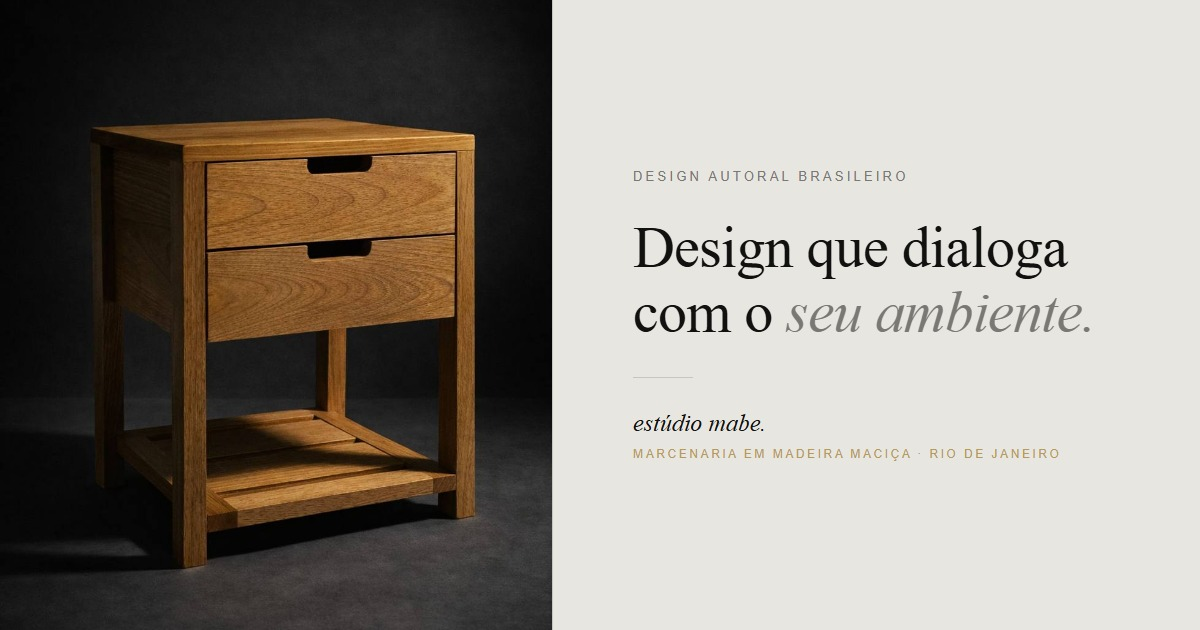
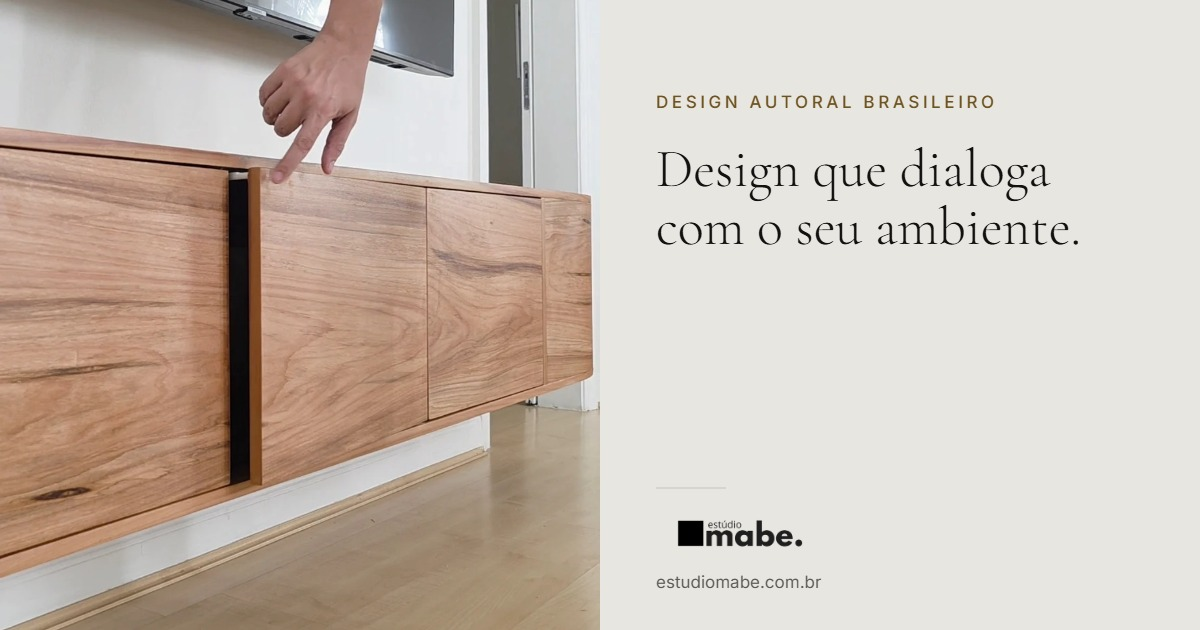
Novo cartao de compartilhamento e papel do Mateus
CARTAO DA HOME
Sai a mesa de cabeceira, entra o rack de peroba do Jardim Botanico, na
foto em que a mao abre a porta sem puxador. Mesma forma de sempre:
metade foto, metade bege com a frase da marca.

Escolhida entre as quatro fotos do projeto porque e a unica em que a
madeira preenche a metade esquerda inteira e a televisao da sala fica
reduzida a uma lasca no topo. Nas outras tres ela ocupa o quarto de
cima da imagem e o recorte nao tem folga para corta-la.

A descricao da imagem (og:image:alt) mudou junto, senao leitor de tela
anunciaria a peca errada.

PAPEL DO MATEUS
"Co-fundador · Criação · Gestão" vira "Co-fundador · Artífice · Manager",
como ele pediu. Em ingles, "Co-founder · Craftsman · Manager".

As 22 paginas de compartilhamento foram regeradas: elas carregam uma
copia do corpo do site, onde o papel aparece.

diff --git a/index.html b/index.html
@@ -141,7 +141,7 @@
   <meta property="og:image" content="https://www.estudiomabe.com.br/images/og/home.jpg" />
   <meta property="og:image:width" content="1200" />
   <meta property="og:image:height" content="630" />
-  <meta property="og:image:alt" content="Mesa de cabeceira Botafogo em tauari maciço, do Estúdio MABE" />
+  <meta property="og:image:alt" content="Rack suspenso em peroba do campo, com a mão abrindo a porta sem puxador, do Estúdio MABE" />
 
   <!-- Twitter / X -->
   <meta name="twitter:card" content="summary_large_image" />
@@ -2504,7 +2504,7 @@
     <div class="fundadores">
       <div class="fundador-card">
         <div class="fundador-avatar" style="background:none;border:none;overflow:hidden;padding:0;width:100px;height:100px;border-radius:50%;flex-shrink:0;"><img src="/images/fundador-mateus.webp" alt="Mateus" width="320" height="340" loading="lazy" style="width:100%;height:100%;object-fit:cover;object-position:center top;border-radius:50%;display:block;" /></div>
-        <p class="fundador-role">Co-fundador · Criação · Gestão</p>
+        <p class="fundador-role">Co-fundador · Artífice · Manager</p>
         <h2 class="fundador-name">Mateus</h2>
         <p class="fundador-bio">Engenheiro de formação, Mateus encontrou na marcenaria bem mais do que um passatempo. Morador da Barra da Tijuca, no Rio de Janeiro, foi fisgado pela riqueza e pela abundância das madeiras brasileiras: tauari, freijó, cumaru, cada uma com um jeito próprio de receber a ferramenta. Das ciências exatas ele trouxe uma certeza que virou método: num encaixe, o milímetro não é detalhe, é o que separa a peça que atravessa gerações da que range no segundo inverno.</p>
         <p class="fundador-bio">Hoje une essa precisão à beleza natural da madeira para criar peças únicas e estruturadas. Proporção vem antes de ornamento: um móvel sem proporção, ele costuma dizer, é uma frase mal escrita, dá para entender, mas incomoda.</p>

diff --git a/en/peca/casa-dada/index.html b/en/peca/casa-dada/index.html
@@ -2505,7 +2505,7 @@
     <div class="fundadores">
       <div class="fundador-card">
         <div class="fundador-avatar" style="background:none;border:none;overflow:hidden;padding:0;width:100px;height:100px;border-radius:50%;flex-shrink:0;"><img src="/images/fundador-mateus.webp" alt="Mateus" width="320" height="340" loading="lazy" style="width:100%;height:100%;object-fit:cover;object-position:center top;border-radius:50%;display:block;" /></div>
-        <p class="fundador-role">Co-fundador · Criação · Gestão</p>
+        <p class="fundador-role">Co-fundador · Artífice · Manager</p>
         <h2 class="fundador-name">Mateus</h2>
         <p class="fundador-bio">Engenheiro de formação, Mateus encontrou na marcenaria bem mais do que um passatempo. Morador da Barra da Tijuca, no Rio de Janeiro, foi fisgado pela riqueza e pela abundância das madeiras brasileiras: tauari, freijó, cumaru, cada uma com um jeito próprio de receber a ferramenta. Das ciências exatas ele trouxe uma certeza que virou método: num encaixe, o milímetro não é detalhe, é o que separa a peça que atravessa gerações da que range no segundo inverno.</p>
         <p class="fundador-bio">Hoje une essa precisão à beleza natural da madeira para criar peças únicas e estruturadas. Proporção vem antes de ornamento: um móvel sem proporção, ele costuma dizer, é uma frase mal escrita, dá para entender, mas incomoda.</p>

diff --git a/en/peca/mesa-de-cabeceira-botafogo/index.html b/en/peca/mesa-de-cabeceira-botafogo/index.html
@@ -2505,7 +2505,7 @@
     <div class="fundadores">
       <div class="fundador-card">
         <div class="fundador-avatar" style="background:none;border:none;overflow:hidden;padding:0;width:100px;height:100px;border-radius:50%;flex-shrink:0;"><img src="/images/fundador-mateus.webp" alt="Mateus" width="320" height="340" loading="lazy" style="width:100%;height:100%;object-fit:cover;object-position:center top;border-radius:50%;display:block;" /></div>
-        <p class="fundador-role">Co-fundador · Criação · Gestão</p>
+        <p class="fundador-role">Co-fundador · Artífice · Manager</p>
         <h2 class="fundador-name">Mateus</h2>
         <p class="fundador-bio">Engenheiro de formação, Mateus encontrou na marcenaria bem mais do que um passatempo. Morador da Barra da Tijuca, no Rio de Janeiro, foi fisgado pela riqueza e pela abundância das madeiras brasileiras: tauari, freijó, cumaru, cada uma com um jeito próprio de receber a ferramenta. Das ciências exatas ele trouxe uma certeza que virou método: num encaixe, o milímetro não é detalhe, é o que separa a peça que atravessa gerações da que range no segundo inverno.</p>
         <p class="fundador-bio">Hoje une essa precisão à beleza natural da madeira para criar peças únicas e estruturadas. Proporção vem antes de ornamento: um móvel sem proporção, ele costuma dizer, é uma frase mal escrita, dá para entender, mas incomoda.</p>

diff --git a/en/peca/rack-urca/index.html b/en/peca/rack-urca/index.html
@@ -2505,7 +2505,7 @@
     <div class="fundadores">
       <div class="fundador-card">
         <div class="fundador-avatar" style="background:none;border:none;overflow:hidden;padding:0;width:100px;height:100px;border-radius:50%;flex-shrink:0;"><img src="/images/fundador-mateus.webp" alt="Mateus" width="320" height="340" loading="lazy" style="width:100%;height:100%;object-fit:cover;object-position:center top;border-radius:50%;display:block;" /></div>
-        <p class="fundador-role">Co-fundador · Criação · Gestão</p>
+        <p class="fundador-role">Co-fundador · Artífice · Manager</p>
         <h2 class="fundador-name">Mateus</h2>
         <p class="fundador-bio">Engenheiro de formação, Mateus encontrou na marcenaria bem mais do que um passatempo. Morador da Barra da Tijuca, no Rio de Janeiro, foi fisgado pela riqueza e pela abundância das madeiras brasileiras: tauari, freijó, cumaru, cada uma com um jeito próprio de receber a ferramenta. Das ciências exatas ele trouxe uma certeza que virou método: num encaixe, o milímetro não é detalhe, é o que separa a peça que atravessa gerações da que range no segundo inverno.</p>
         <p class="fundador-bio">Hoje une essa precisão à beleza natural da madeira para criar peças únicas e estruturadas. Proporção vem antes de ornamento: um móvel sem proporção, ele costuma dizer, é uma frase mal escrita, dá para entender, mas incomoda.</p>

diff --git a/en/projeto/banco-meditacao-seiza/index.html b/en/projeto/banco-meditacao-seiza/index.html
@@ -2505,7 +2505,7 @@
     <div class="fundadores">
       <div class="fundador-card">
         <div class="fundador-avatar" style="background:none;border:none;overflow:hidden;padding:0;width:100px;height:100px;border-radius:50%;flex-shrink:0;"><img src="/images/fundador-mateus.webp" alt="Mateus" width="320" height="340" loading="lazy" style="width:100%;height:100%;object-fit:cover;object-position:center top;border-radius:50%;display:block;" /></div>
-        <p class="fundador-role">Co-fundador · Criação · Gestão</p>
+        <p class="fundador-role">Co-fundador · Artífice · Manager</p>
         <h2 class="fundador-name">Mateus</h2>
         <p class="fundador-bio">Engenheiro de formação, Mateus encontrou na marcenaria bem mais do que um passatempo. Morador da Barra da Tijuca, no Rio de Janeiro, foi fisgado pela riqueza e pela abundância das madeiras brasileiras: tauari, freijó, cumaru, cada uma com um jeito próprio de receber a ferramenta. Das ciências exatas ele trouxe uma certeza que virou método: num encaixe, o milímetro não é detalhe, é o que separa a peça que atravessa gerações da que range no segundo inverno.</p>
         <p class="fundador-bio">Hoje une essa precisão à beleza natural da madeira para criar peças únicas e estruturadas. Proporção vem antes de ornamento: um móvel sem proporção, ele costuma dizer, é uma frase mal escrita, dá para entender, mas incomoda.</p>

diff --git a/en/projeto/cama-tauari-gavea/index.html b/en/projeto/cama-tauari-gavea/index.html
@@ -2505,7 +2505,7 @@
     <div class="fundadores">
       <div class="fundador-card">
         <div class="fundador-avatar" style="background:none;border:none;overflow:hidden;padding:0;width:100px;height:100px;border-radius:50%;flex-shrink:0;"><img src="/images/fundador-mateus.webp" alt="Mateus" width="320" height="340" loading="lazy" style="width:100%;height:100%;object-fit:cover;object-position:center top;border-radius:50%;display:block;" /></div>
-        <p class="fundador-role">Co-fundador · Criação · Gestão</p>
+        <p class="fundador-role">Co-fundador · Artífice · Manager</p>
         <h2 class="fundador-name">Mateus</h2>
         <p class="fundador-bio">Engenheiro de formação, Mateus encontrou na marcenaria bem mais do que um passatempo. Morador da Barra da Tijuca, no Rio de Janeiro, foi fisgado pela riqueza e pela abundância das madeiras brasileiras: tauari, freijó, cumaru, cada uma com um jeito próprio de receber a ferramenta. Das ciências exatas ele trouxe uma certeza que virou método: num encaixe, o milímetro não é detalhe, é o que separa a peça que atravessa gerações da que range no segundo inverno.</p>
         <p class="fundador-bio">Hoje une essa precisão à beleza natural da madeira para criar peças únicas e estruturadas. Proporção vem antes de ornamento: um móvel sem proporção, ele costuma dizer, é uma frase mal escrita, dá para entender, mas incomoda.</p>

diff --git a/en/projeto/gaveteiro-cedrinho-meia-cana/index.html b/en/projeto/gaveteiro-cedrinho-meia-cana/index.html
@@ -2505,7 +2505,7 @@
     <div class="fundadores">
       <div class="fundador-card">
         <div class="fundador-avatar" style="background:none;border:none;overflow:hidden;padding:0;width:100px;height:100px;border-radius:50%;flex-shrink:0;"><img src="/images/fundador-mateus.webp" alt="Mateus" width="320" height="340" loading="lazy" style="width:100%;height:100%;object-fit:cover;object-position:center top;border-radius:50%;display:block;" /></div>
-        <p class="fundador-role">Co-fundador · Criação · Gestão</p>
+        <p class="fundador-role">Co-fundador · Artífice · Manager</p>
         <h2 class="fundador-name">Mateus</h2>
         <p class="fundador-bio">Engenheiro de formação, Mateus encontrou na marcenaria bem mais do que um passatempo. Morador da Barra da Tijuca, no Rio de Janeiro, foi fisgado pela riqueza e pela abundância das madeiras brasileiras: tauari, freijó, cumaru, cada uma com um jeito próprio de receber a ferramenta. Das ciências exatas ele trouxe uma certeza que virou método: num encaixe, o milímetro não é detalhe, é o que separa a peça que atravessa gerações da que range no segundo inverno.</p>
         <p class="fundador-bio">Hoje une essa precisão à beleza natural da madeira para criar peças únicas e estruturadas. Proporção vem antes de ornamento: um móvel sem proporção, ele costuma dizer, é uma frase mal escrita, dá para entender, mas incomoda.</p>

diff --git a/en/projeto/mesa-cabeceira-tauari-palha/index.html b/en/projeto/mesa-cabeceira-tauari-palha/index.html
@@ -2505,7 +2505,7 @@
     <div class="fundadores">
       <div class="fundador-card">
         <div class="fundador-avatar" style="background:none;border:none;overflow:hidden;padding:0;width:100px;height:100px;border-radius:50%;flex-shrink:0;"><img src="/images/fundador-mateus.webp" alt="Mateus" width="320" height="340" loading="lazy" style="width:100%;height:100%;object-fit:cover;object-position:center top;border-radius:50%;display:block;" /></div>
-        <p class="fundador-role">Co-fundador · Criação · Gestão</p>
+        <p class="fundador-role">Co-fundador · Artífice · Manager</p>
         <h2 class="fundador-name">Mateus</h2>
         <p class="fundador-bio">Engenheiro de formação, Mateus encontrou na marcenaria bem mais do que um passatempo. Morador da Barra da Tijuca, no Rio de Janeiro, foi fisgado pela riqueza e pela abundância das madeiras brasileiras: tauari, freijó, cumaru, cada uma com um jeito próprio de receber a ferramenta. Das ciências exatas ele trouxe uma certeza que virou método: num encaixe, o milímetro não é detalhe, é o que separa a peça que atravessa gerações da que range no segundo inverno.</p>
         <p class="fundador-bio">Hoje une essa precisão à beleza natural da madeira para criar peças únicas e estruturadas. Proporção vem antes de ornamento: um móvel sem proporção, ele costuma dizer, é uma frase mal escrita, dá para entender, mas incomoda.</p>

diff --git a/en/projeto/mesa-cabeceira-tauari/index.html b/en/projeto/mesa-cabeceira-tauari/index.html
@@ -2505,7 +2505,7 @@
     <div class="fundadores">
       <div class="fundador-card">
         <div class="fundador-avatar" style="background:none;border:none;overflow:hidden;padding:0;width:100px;height:100px;border-radius:50%;flex-shrink:0;"><img src="/images/fundador-mateus.webp" alt="Mateus" width="320" height="340" loading="lazy" style="width:100%;height:100%;object-fit:cover;object-position:center top;border-radius:50%;display:block;" /></div>
-        <p class="fundador-role">Co-fundador · Criação · Gestão</p>
+        <p class="fundador-role">Co-fundador · Artífice · Manager</p>
         <h2 class="fundador-name">Mateus</h2>
         <p class="fundador-bio">Engenheiro de formação, Mateus encontrou na marcenaria bem mais do que um passatempo. Morador da Barra da Tijuca, no Rio de Janeiro, foi fisgado pela riqueza e pela abundância das madeiras brasileiras: tauari, freijó, cumaru, cada uma com um jeito próprio de receber a ferramenta. Das ciências exatas ele trouxe uma certeza que virou método: num encaixe, o milímetro não é detalhe, é o que separa a peça que atravessa gerações da que range no segundo inverno.</p>
         <p class="fundador-bio">Hoje une essa precisão à beleza natural da madeira para criar peças únicas e estruturadas. Proporção vem antes de ornamento: um móvel sem proporção, ele costuma dizer, é uma frase mal escrita, dá para entender, mas incomoda.</p>

diff --git a/en/projeto/mesa-estudio-musical-cumaru/index.html b/en/projeto/mesa-estudio-musical-cumaru/index.html
@@ -2505,7 +2505,7 @@
     <div class="fundadores">
       <div class="fundador-card">
         <div class="fundador-avatar" style="background:none;border:none;overflow:hidden;padding:0;width:100px;height:100px;border-radius:50%;flex-shrink:0;"><img src="/images/fundador-mateus.webp" alt="Mateus" width="320" height="340" loading="lazy" style="width:100%;height:100%;object-fit:cover;object-position:center top;border-radius:50%;display:block;" /></div>
-        <p class="fundador-role">Co-fundador · Criação · Gestão</p>
+        <p class="fundador-role">Co-fundador · Artífice · Manager</p>
         <h2 class="fundador-name">Mateus</h2>
         <p class="fundador-bio">Engenheiro de formação, Mateus encontrou na marcenaria bem mais do que um passatempo. Morador da Barra da Tijuca, no Rio de Janeiro, foi fisgado pela riqueza e pela abundância das madeiras brasileiras: tauari, freijó, cumaru, cada uma com um jeito próprio de receber a ferramenta. Das ciências exatas ele trouxe uma certeza que virou método: num encaixe, o milímetro não é detalhe, é o que separa a peça que atravessa gerações da que range no segundo inverno.</p>
         <p class="fundador-bio">Hoje une essa precisão à beleza natural da madeira para criar peças únicas e estruturadas. Proporção vem antes de ornamento: um móvel sem proporção, ele costuma dizer, é uma frase mal escrita, dá para entender, mas incomoda.</p>

diff --git a/en/projeto/rack-escrivaninha-freijo-urca/index.html b/en/projeto/rack-escrivaninha-freijo-urca/index.html
@@ -2505,7 +2505,7 @@
     <div class="fundadores">
       <div class="fundador-card">
         <div class="fundador-avatar" style="background:none;border:none;overflow:hidden;padding:0;width:100px;height:100px;border-radius:50%;flex-shrink:0;"><img src="/images/fundador-mateus.webp" alt="Mateus" width="320" height="340" loading="lazy" style="width:100%;height:100%;object-fit:cover;object-position:center top;border-radius:50%;display:block;" /></div>
-        <p class="fundador-role">Co-fundador · Criação · Gestão</p>
+        <p class="fundador-role">Co-fundador · Artífice · Manager</p>
         <h2 class="fundador-name">Mateus</h2>
         <p class="fundador-bio">Engenheiro de formação, Mateus encontrou na marcenaria bem mais do que um passatempo. Morador da Barra da Tijuca, no Rio de Janeiro, foi fisgado pela riqueza e pela abundância das madeiras brasileiras: tauari, freijó, cumaru, cada uma com um jeito próprio de receber a ferramenta. Das ciências exatas ele trouxe uma certeza que virou método: num encaixe, o milímetro não é detalhe, é o que separa a peça que atravessa gerações da que range no segundo inverno.</p>
         <p class="fundador-bio">Hoje une essa precisão à beleza natural da madeira para criar peças únicas e estruturadas. Proporção vem antes de ornamento: um móvel sem proporção, ele costuma dizer, é uma frase mal escrita, dá para entender, mas incomoda.</p>

diff --git a/en/projeto/rack-peroba-jardim-botanico/index.html b/en/projeto/rack-peroba-jardim-botanico/index.html
@@ -2505,7 +2505,7 @@
     <div class="fundadores">
       <div class="fundador-card">
         <div class="fundador-avatar" style="background:none;border:none;overflow:hidden;padding:0;width:100px;height:100px;border-radius:50%;flex-shrink:0;"><img src="/images/fundador-mateus.webp" alt="Mateus" width="320" height="340" loading="lazy" style="width:100%;height:100%;object-fit:cover;object-position:center top;border-radius:50%;display:block;" /></div>
-        <p class="fundador-role">Co-fundador · Criação · Gestão</p>
+        <p class="fundador-role">Co-fundador · Artífice · Manager</p>
         <h2 class="fundador-name">Mateus</h2>
         <p class="fundador-bio">Engenheiro de formação, Mateus encontrou na marcenaria bem mais do que um passatempo. Morador da Barra da Tijuca, no Rio de Janeiro, foi fisgado pela riqueza e pela abundância das madeiras brasileiras: tauari, freijó, cumaru, cada uma com um jeito próprio de receber a ferramenta. Das ciências exatas ele trouxe uma certeza que virou método: num encaixe, o milímetro não é detalhe, é o que separa a peça que atravessa gerações da que range no segundo inverno.</p>
         <p class="fundador-bio">Hoje une essa precisão à beleza natural da madeira para criar peças únicas e estruturadas. Proporção vem antes de ornamento: um móvel sem proporção, ele costuma dizer, é uma frase mal escrita, dá para entender, mas incomoda.</p>
